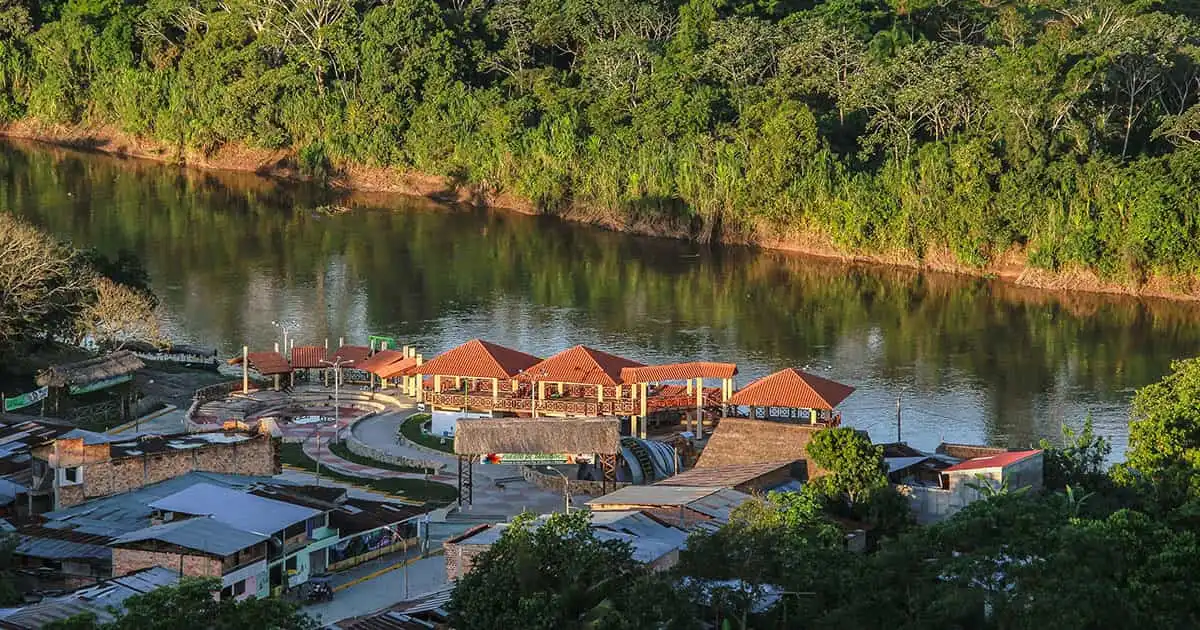
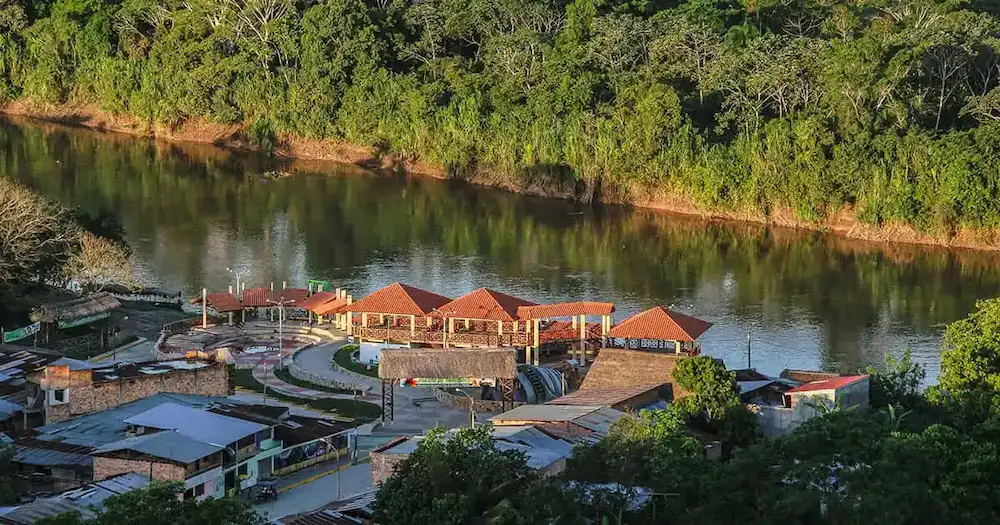
changes made to meet page audit requirements - week 03

diff --git a/styles/place.css b/styles/place.css
@@ -7,22 +7,21 @@
     --primary-color: #ffff;
     --secondary-color: #D91023;
     --heading-color: #ffff;
-    --card-text-color: rgb(0, 100, 0);
-    --border-color: goldenrod;
+    --card-text-color: #006400;
+    --border-color: #daa520;
 }
 
 header, footer {
-    padding: 10px 20px;
+    padding: 40px;
     text-align: center;
     background-color: var(--secondary-color);
     color: var(--heading-color);
-    font-size: 0.8rem;
+    font-size: 1rem;
     width: inherit;
 }
 
 header {
-    border-bottom: 5px solid var(--border-color);
-    padding: 20px;
+    border-bottom: 15px solid var(--border-color);
 }
 
 main {
@@ -43,7 +42,7 @@ picture img {
     background-color: var(--heading-color);
     color: var(--card-text-color);
     padding: 10px;
-    font-size: 0.7rem;
+    font-size: 1rem;
 }
 
 .card li {
@@ -72,9 +71,8 @@ picture img {
 }
 
 footer {
-    border-top: 5px solid var(--border-color);
+    border-top: 15px solid var(--border-color);
     background-color: var(--card-text-color);
-    font-size: 0.7rem;
 }
 
 /*--------------------Large Views----------------*/
@@ -82,17 +80,21 @@ footer {
 @media screen and (min-width: 800px) {
 
     header {
-        font-size: 1rem;
+        font-size: 1.5rem;
     }
 
     footer {
-        font-size: 1.2rem;
+        font-size: 1.3rem;
     }
 
     .card {
-        padding: 20px;
+        padding: 25px;
         border-radius: 5px;
-        font-size: 1.3rem;
+        font-size: 1.5rem;
+    }
+
+    .card h2 {
+        margin-bottom: 20px;
     }
 
     .weather {

diff --git a/place.html b/place.html
@@ -7,7 +7,7 @@
     <meta name="author" content="Diego Esquit">
     <meta name="description" content="WDD 131 | Week 03 | Country Page | Diego: 
     Page to practice all concepts I learned this week: Responsive web images, 
-    Javascript arrays and functions, CSS pseudo classes and elements.">
+    Javascript arrays and functions, CSS pseudo classes and elements, good CSS practices.">
     <link rel="stylesheet" href="styles/place.css">
     <script src="scripts/place.js" defer></script>
 </head>
@@ -17,8 +17,8 @@
     </header>
     <main>
         <picture>
-            <source srcset="images/places-images/hero-large.webp" media="(min-width: 400px)">
-            <source srcset="images/places-images/hero-medium.webp" media="(min-width: 250px)">
+            <source srcset="images/places-images/hero-large.webp" media="(min-width: 800px)">
+            <source srcset="images/places-images/hero-medium.webp" media="(min-width: 500px)">
             <img src="images/places-images/hero-small.webp" alt="Landscape of houses near the river in the city of Moyobamba, Peru">
         </picture>
         <section class="card data">